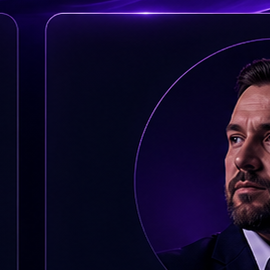
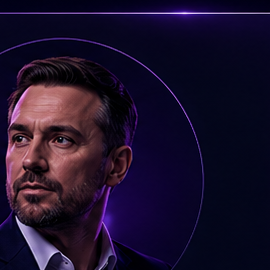
refine hero program and faq layout

diff --git a/components/landing.tsx b/components/landing.tsx
@@ -121,7 +121,7 @@ function HeroMetaCard({
   copy: string;
 }) {
   return (
-    <div className="flex min-h-[88px] items-start gap-2 rounded-[22px] border border-white/10 bg-black/22 px-4 py-3.5 backdrop-blur-xl">
+    <div className="flex min-h-[84px] items-start gap-2 rounded-[22px] border border-white/10 bg-black/22 px-4 py-3.5 backdrop-blur-xl">
       <div className="flex h-10 w-10 shrink-0 items-center justify-center rounded-full border border-violet-400/30 bg-[radial-gradient(circle_at_35%_30%,rgba(124,60,255,0.34),rgba(8,7,22,0.96))] text-violet-100">
         {icon}
       </div>
@@ -157,7 +157,7 @@ function ProgramIcon({ icon }: { icon?: ProgramItem["icon"] }) {
 
 function HeroVisual() {
   return (
-    <div className="relative min-h-[680px] overflow-hidden rounded-[38px] bg-[#050411]">
+    <div className="relative min-h-[580px] overflow-hidden rounded-[38px] bg-[#050411]">
       <Image
         src="/hero-stage-3.png"
         alt=""
@@ -172,16 +172,19 @@ function HeroVisual() {
 }
 
 function SpeakerCard({ speaker, index }: { speaker: Speaker; index: number }) {
+  const imagePositionClass = "object-center";
+  const imageSrc = `/speaker-${index + 1}-face.png`;
+
   return (
     <article className="group flex h-full min-h-[640px] flex-col overflow-hidden rounded-[32px] border border-white/10 bg-white/[0.045] shadow-soft backdrop-blur-2xl transition duration-300 hover:-translate-y-1 hover:border-violet-300/30 hover:bg-white/[0.06]">
       <div className="relative px-5 pb-3 pt-6">
         <div className="absolute inset-x-0 top-0 h-28 bg-[radial-gradient(circle_at_50%_0%,rgba(124,60,255,0.3),transparent_60%)]" />
         <div className="relative mx-auto h-60 w-60 overflow-hidden rounded-full border border-white/12 bg-[radial-gradient(circle_at_32%_28%,rgba(255,255,255,0.16),rgba(124,60,255,0.3)_45%,rgba(8,7,22,0.98))] p-2.5 shadow-[0_0_0_1px_rgba(124,60,255,0.06),0_0_60px_rgba(124,60,255,0.18)]">
           <Image
-            src={`/speaker-${index + 1}-face.png`}
+            src={imageSrc}
             alt={speaker.name}
             fill
-            className="object-cover object-center"
+            className={`object-cover ${imagePositionClass}`}
           />
         </div>
       </div>
@@ -216,12 +219,12 @@ function ProgramRow({
 
   return (
     <li
-      className={`relative overflow-hidden rounded-[22px] border px-4 py-4 transition ${
+      className={`relative py-5 transition ${
         isFinal
-          ? "border-violet-400/50 bg-[linear-gradient(180deg,rgba(124,60,255,0.24),rgba(255,255,255,0.05))] shadow-[0_0_0_1px_rgba(124,60,255,0.14)] lg:pr-16"
+          ? "rounded-[22px] border border-violet-400/50 bg-[linear-gradient(180deg,rgba(124,60,255,0.18),rgba(255,255,255,0.04))] px-4 shadow-[0_0_0_1px_rgba(124,60,255,0.12)] lg:pr-16"
           : isFeatured
-            ? "border-violet-300/35 bg-white/[0.055] shadow-[0_0_34px_rgba(124,60,255,0.16)] lg:pr-16"
-            : "border-white/10 bg-white/[0.04] hover:border-violet-300/25 hover:bg-white/[0.06]"
+            ? "rounded-[22px] border border-violet-300/35 bg-white/[0.04] px-4 shadow-[0_0_34px_rgba(124,60,255,0.12)] lg:pr-16"
+            : "border-b border-white/10 last:border-b-0"
       }`}
     >
       <div className="grid gap-3 lg:grid-cols-[96px_18px_1fr] lg:items-start">
@@ -315,21 +318,21 @@ function FAQItem({ item, index }: { item: { question: string; answer: string }; 
   return (
     <details
       open={index === 0}
-      className="group rounded-[26px] border border-white/10 bg-white/[0.045] p-4 shadow-soft backdrop-blur-2xl"
+      className="group min-h-[164px] rounded-[26px] border border-white/10 bg-white/[0.045] p-5 shadow-soft backdrop-blur-2xl lg:min-h-[172px]"
     >
       <summary className="flex cursor-pointer list-none items-center gap-4 marker:hidden">
-        <span className="flex h-10 w-10 shrink-0 items-center justify-center rounded-full border border-white/10 bg-black/20 text-sm font-semibold text-white/72">
+        <span className="flex h-12 w-12 shrink-0 items-center justify-center rounded-full border border-white/10 bg-black/20 text-sm font-semibold text-white/72">
           {String(index + 1).padStart(2, "0")}
         </span>
-        <span className="min-w-0 flex-1 text-left text-lg font-medium text-white">
+        <span className="min-w-0 flex-1 text-left text-[1.15rem] font-medium leading-tight text-white sm:text-[1.2rem]">
           {item.question}
         </span>
-        <span className="flex h-10 w-10 shrink-0 items-center justify-center rounded-full border border-white/10 bg-black/20 text-lg text-white/70">
+        <span className="flex h-12 w-12 shrink-0 items-center justify-center rounded-full border border-white/10 bg-black/20 text-lg text-white/70">
           <span className="group-open:hidden">+</span>
           <span className="hidden group-open:inline">-</span>
         </span>
       </summary>
-      <p className="mt-4 ml-14 text-sm leading-7 text-white/65">{item.answer}</p>
+      <p className="mt-5 ml-16 max-w-[620px] text-[15px] leading-7 text-white/65">{item.answer}</p>
     </details>
   );
 }
@@ -452,13 +455,13 @@ export function LandingPage() {
             </Link>
           </header>
 
-          <div id="top" className="mt-8 grid gap-8 lg:mt-10 lg:grid-cols-[1.08fr_0.92fr] lg:items-center">
+          <div id="top" className="mt-6 grid gap-6 lg:mt-8 lg:grid-cols-[1.08fr_0.92fr] lg:items-center">
             <div className="max-w-3xl">
               <div className="chip gap-2">
                 <SparkIcon className="h-4 w-4 text-violet-300" />
                 <span>{eventData.badge}</span>
               </div>
-              <h1 className="mt-5 max-w-2xl font-display text-5xl leading-[0.88] text-white sm:text-7xl lg:text-[8.15rem]">
+              <h1 className="mt-5 max-w-2xl font-display text-5xl leading-[0.88] text-white sm:text-7xl lg:text-[7.7rem] lg:leading-[0.86]">
                 <span className="block">Цифровой</span>
                 <span className="block">капитал</span>
               </h1>
@@ -466,7 +469,7 @@ export function LandingPage() {
                 {eventData.subtitle}
               </p>
 
-              <div className="mt-7 grid gap-3 sm:grid-cols-3">
+              <div className="mt-6 grid gap-3 sm:grid-cols-3">
                 <HeroMetaCard
                   icon={<CalendarIcon className="h-5 w-5" />}
                   title={eventData.dateLabel}
@@ -484,7 +487,7 @@ export function LandingPage() {
                 />
               </div>
 
-              <div className="mt-7 flex flex-col gap-3 sm:flex-row">
+              <div className="mt-6 flex flex-col gap-3 sm:flex-row">
                 <Link href="#register" className="btn-primary min-w-[270px] justify-between">
                   <span>{eventData.heroCta}</span>
                   <ArrowRightIcon className="h-5 w-5" />
@@ -499,11 +502,11 @@ export function LandingPage() {
             <HeroVisual />
           </div>
 
-          <div className="mt-8 grid gap-4 sm:grid-cols-2 xl:grid-cols-4">
+          <div className="mt-6 grid gap-4 sm:grid-cols-2 xl:grid-cols-4">
             {eventData.stats.map((stat, index) => (
               <div
                 key={stat.label}
-                className="min-h-[180px] rounded-[26px] border border-white/10 bg-[linear-gradient(180deg,rgba(255,255,255,0.035),rgba(255,255,255,0.02))] p-5 shadow-soft"
+                className="min-h-[160px] rounded-[26px] border border-white/10 bg-[linear-gradient(180deg,rgba(255,255,255,0.035),rgba(255,255,255,0.02))] p-5 shadow-soft"
               >
                 <div className="flex h-full items-start justify-between gap-4">
                   <div>
@@ -581,7 +584,7 @@ export function LandingPage() {
           <div className="rounded-[32px] border border-white/10 bg-[linear-gradient(180deg,rgba(255,255,255,0.065),rgba(255,255,255,0.03))] p-4 shadow-soft backdrop-blur-2xl md:p-5">
             <div className="relative rounded-[26px] border border-white/10 bg-black/18 p-4 md:p-5 lg:pl-[120px]">
               <div className="pointer-events-none absolute left-[120px] top-8 bottom-8 hidden w-px bg-white/10 lg:block" />
-              <ul className="space-y-3">
+              <ul className="divide-y divide-white/10">
                 {eventData.program.map((item) => (
                   <ProgramRow
                     key={`${item.time}-${item.title}`}